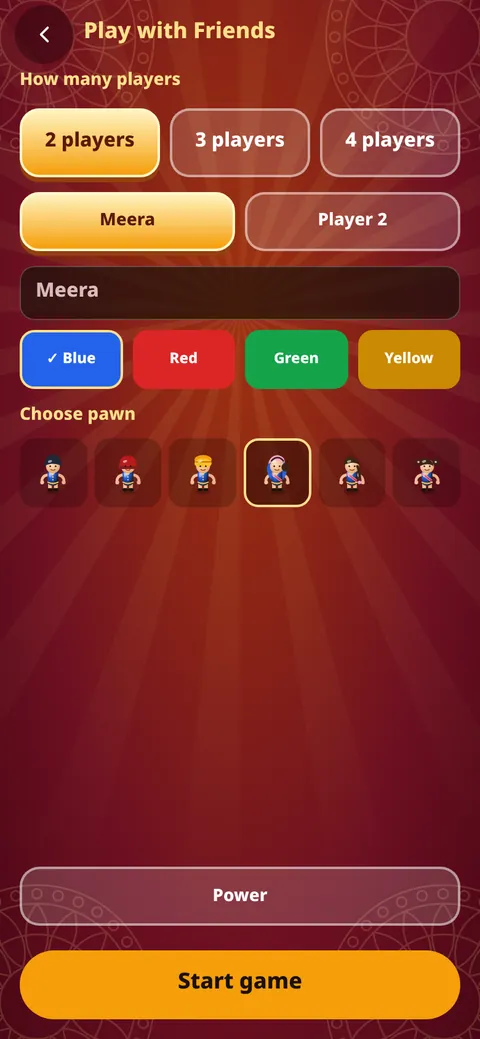
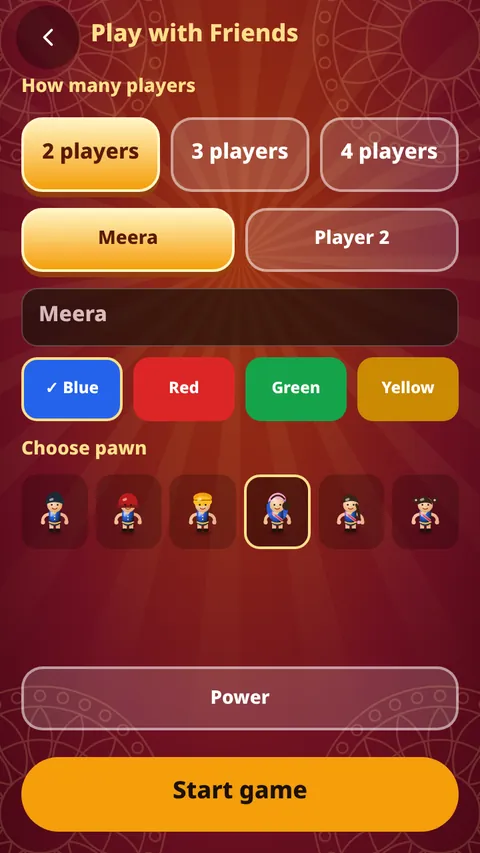
Review r3: 48px contact link row, stricter inline-link rule, danda-safe Hindi bans, tighter Friends shot
- Contact 'Data deletion · Terms of use' row: links use .small (48px), row is a wrapping flex line.
- Tap-target test: a link only counts as inline if its paragraph still has Latin or Devanagari
  letters once the links are removed (separators like '·' or '|' do not count).
- Hindi ban word boundary leaves out the danda and double danda, so 'जीतो।' and 'नकद।' are caught.
- Ludo 'Play with Friends' shot recaptured on a 360x640 phone (desi-ludo main, unchanged); the phone
  frame uses 9:16 for screens shot at that ratio.

diff --git a/public/contact.html b/public/contact.html
@@ -13,7 +13,7 @@
 <link rel="apple-touch-icon" href="/apple-touch-icon.png">
 <link rel="preload" href="/assets/fonts/YesevaOne.woff2" as="font" type="font/woff2" crossorigin>
 <link rel="preload" href="/assets/fonts/Literata-latin.woff2" as="font" type="font/woff2" crossorigin>
-<link rel="stylesheet" href="/assets/css/site.css?v=d7bb5a0369">
+<link rel="stylesheet" href="/assets/css/site.css?v=cea6a81fd4">
 <meta property="og:site_name" content="Bharat Joy">
 <meta property="og:type" content="website">
 <meta property="og:locale" content="en_IN">
@@ -62,7 +62,7 @@
         <li><a class="contact-game" href="/block-puzzle/"><img class="" src="/assets/img/icons/block-icon-96.webp" width="48" height="48" alt="" loading="lazy" decoding="async"><span><strong>Bharat Block Puzzle</strong><span lang="hi">भारत ब्लॉक पहेली</span></span></a> <a class="small" href="/block-puzzle/privacy"><span data-i18n="t2">Privacy policy</span></a></li>
         <li><a class="contact-game" href="/sweet-mela/"><img class="" src="/assets/img/icons/mela-icon-96.webp" width="48" height="48" alt="" loading="lazy" decoding="async"><span><strong>Bharat Sweet Mela</strong><span lang="hi">भारत स्वीट मेला</span></span></a> <a class="small" href="/sweet-mela/privacy"><span data-i18n="t3">Privacy policy</span></a></li>
     </ul>
-    <p><a href="/delete"><span data-i18n="t10">Data deletion</span></a> · <a href="/terms"><span data-i18n="t11">Terms of use</span></a></p>
+    <p class="contact-more"><a class="small" href="/delete"><span data-i18n="t10">Data deletion</span></a> <span aria-hidden="true">·</span> <a class="small" href="/terms"><span data-i18n="t11">Terms of use</span></a></p>
   </section>
   </main>
   <footer class="site-footer" id="policies">

diff --git a/public/bharat-ludo/index.html b/public/bharat-ludo/index.html
@@ -13,7 +13,7 @@
 <link rel="apple-touch-icon" href="/apple-touch-icon.png">
 <link rel="preload" href="/assets/fonts/YesevaOne.woff2" as="font" type="font/woff2" crossorigin>
 <link rel="preload" href="/assets/fonts/Literata-latin.woff2" as="font" type="font/woff2" crossorigin>
-<link rel="stylesheet" href="/assets/css/site.css?v=d7bb5a0369">
+<link rel="stylesheet" href="/assets/css/site.css?v=cea6a81fd4">
 <meta property="og:site_name" content="Bharat Joy">
 <meta property="og:type" content="website">
 <meta property="og:locale" content="en_IN">
@@ -75,7 +75,7 @@
       </ul>
     </div>
     <figure class="feat-shot">
-      <div class="phone "><div class="bezel"><div class="screen"><img src="/assets/img/shots/ludo-friends.webp" width="480" height="1039" alt="Bharat Ludo Play with Friends setup: number of players, names, colours and pawns" loading="lazy" decoding="async"></div></div></div>
+      <div class="phone "><div class="bezel"><div class="screen r169"><img src="/assets/img/shots/ludo-friends.webp" width="480" height="853" alt="Bharat Ludo Play with Friends setup: number of players, names, colours, pawns and Start game" loading="lazy" decoding="async"></div></div></div>
       <figcaption class="sr-only"><span data-i18n="t15">Screens from the game</span></figcaption>
     </figure>
   </section>

diff --git a/public/assets/css/site.css b/public/assets/css/site.css
@@ -120,6 +120,7 @@ p.body{font-size:17px;line-height:1.6;color:var(--mute);max-width:520px}
 .bezel{background:#2a1610;border-radius:34px;padding:10px;box-shadow:inset 0 0 0 1px var(--gold-line)}
 .screen{border-radius:24px;overflow:hidden;aspect-ratio:390/844;background:#1a0a08}
 .screen img{width:100%;height:100%;object-fit:cover;object-position:top}
+.screen.r169{aspect-ratio:9/16}
 
 /* Workshop */
 .workshop{padding:36px var(--pad) 20px}
@@ -188,6 +189,7 @@ a.cta{border:1px solid var(--maroon);background:var(--maroon);color:var(--paper)
 .contact-game strong{display:block;font-family:var(--display);font-weight:400;font-size:18px}
 .contact-game span span{display:block;color:var(--maroon);font-size:14px}
 .small{font-family:var(--italic);font-style:italic;font-size:16px;min-height:48px;display:inline-flex;align-items:center}
+.contact-more{display:flex;flex-wrap:wrap;align-items:center;column-gap:10px;margin-top:6px}
 .center{text-align:center}
 .still-board{width:180px;height:180px;margin:12px auto 18px;filter:drop-shadow(0 12px 18px rgba(80,20,20,.25))}
 .nf .lede{margin:0 auto 10px}

diff --git a/public/404.html b/public/404.html
@@ -13,7 +13,7 @@
 <link rel="apple-touch-icon" href="/apple-touch-icon.png">
 <link rel="preload" href="/assets/fonts/YesevaOne.woff2" as="font" type="font/woff2" crossorigin>
 <link rel="preload" href="/assets/fonts/Literata-latin.woff2" as="font" type="font/woff2" crossorigin>
-<link rel="stylesheet" href="/assets/css/site.css?v=d7bb5a0369">
+<link rel="stylesheet" href="/assets/css/site.css?v=cea6a81fd4">
 <meta property="og:site_name" content="Bharat Joy">
 <meta property="og:type" content="website">
 <meta property="og:locale" content="en_IN">

diff --git a/public/bharat-ludo/privacy.html b/public/bharat-ludo/privacy.html
@@ -13,7 +13,7 @@
 <link rel="apple-touch-icon" href="/apple-touch-icon.png">
 <link rel="preload" href="/assets/fonts/YesevaOne.woff2" as="font" type="font/woff2" crossorigin>
 <link rel="preload" href="/assets/fonts/Literata-latin.woff2" as="font" type="font/woff2" crossorigin>
-<link rel="stylesheet" href="/assets/css/site.css?v=d7bb5a0369">
+<link rel="stylesheet" href="/assets/css/site.css?v=cea6a81fd4">
 <meta property="og:site_name" content="Bharat Joy">
 <meta property="og:type" content="website">
 <meta property="og:locale" content="en_IN">

diff --git a/public/block-puzzle/index.html b/public/block-puzzle/index.html
@@ -13,7 +13,7 @@
 <link rel="apple-touch-icon" href="/apple-touch-icon.png">
 <link rel="preload" href="/assets/fonts/YesevaOne.woff2" as="font" type="font/woff2" crossorigin>
 <link rel="preload" href="/assets/fonts/Literata-latin.woff2" as="font" type="font/woff2" crossorigin>
-<link rel="stylesheet" href="/assets/css/site.css?v=d7bb5a0369">
+<link rel="stylesheet" href="/assets/css/site.css?v=cea6a81fd4">
 <meta property="og:site_name" content="Bharat Joy">
 <meta property="og:type" content="website">
 <meta property="og:locale" content="en_IN">

diff --git a/public/block-puzzle/privacy.html b/public/block-puzzle/privacy.html
@@ -13,7 +13,7 @@
 <link rel="apple-touch-icon" href="/apple-touch-icon.png">
 <link rel="preload" href="/assets/fonts/YesevaOne.woff2" as="font" type="font/woff2" crossorigin>
 <link rel="preload" href="/assets/fonts/Literata-latin.woff2" as="font" type="font/woff2" crossorigin>
-<link rel="stylesheet" href="/assets/css/site.css?v=d7bb5a0369">
+<link rel="stylesheet" href="/assets/css/site.css?v=cea6a81fd4">
 <meta property="og:site_name" content="Bharat Joy">
 <meta property="og:type" content="website">
 <meta property="og:locale" content="en_IN">

diff --git a/public/delete.html b/public/delete.html
@@ -13,7 +13,7 @@
 <link rel="apple-touch-icon" href="/apple-touch-icon.png">
 <link rel="preload" href="/assets/fonts/YesevaOne.woff2" as="font" type="font/woff2" crossorigin>
 <link rel="preload" href="/assets/fonts/Literata-latin.woff2" as="font" type="font/woff2" crossorigin>
-<link rel="stylesheet" href="/assets/css/site.css?v=d7bb5a0369">
+<link rel="stylesheet" href="/assets/css/site.css?v=cea6a81fd4">
 <meta property="og:site_name" content="Bharat Joy">
 <meta property="og:type" content="website">
 <meta property="og:locale" content="en_IN">

diff --git a/public/index.html b/public/index.html
@@ -13,7 +13,7 @@
 <link rel="apple-touch-icon" href="/apple-touch-icon.png">
 <link rel="preload" href="/assets/fonts/YesevaOne.woff2" as="font" type="font/woff2" crossorigin>
 <link rel="preload" href="/assets/fonts/Literata-latin.woff2" as="font" type="font/woff2" crossorigin>
-<link rel="stylesheet" href="/assets/css/site.css?v=d7bb5a0369">
+<link rel="stylesheet" href="/assets/css/site.css?v=cea6a81fd4">
 <meta property="og:site_name" content="Bharat Joy">
 <meta property="og:type" content="website">
 <meta property="og:locale" content="en_IN">

diff --git a/public/sweet-mela/index.html b/public/sweet-mela/index.html
@@ -13,7 +13,7 @@
 <link rel="apple-touch-icon" href="/apple-touch-icon.png">
 <link rel="preload" href="/assets/fonts/YesevaOne.woff2" as="font" type="font/woff2" crossorigin>
 <link rel="preload" href="/assets/fonts/Literata-latin.woff2" as="font" type="font/woff2" crossorigin>
-<link rel="stylesheet" href="/assets/css/site.css?v=d7bb5a0369">
+<link rel="stylesheet" href="/assets/css/site.css?v=cea6a81fd4">
 <meta property="og:site_name" content="Bharat Joy">
 <meta property="og:type" content="website">
 <meta property="og:locale" content="en_IN">

diff --git a/public/sweet-mela/privacy.html b/public/sweet-mela/privacy.html
@@ -13,7 +13,7 @@
 <link rel="apple-touch-icon" href="/apple-touch-icon.png">
 <link rel="preload" href="/assets/fonts/YesevaOne.woff2" as="font" type="font/woff2" crossorigin>
 <link rel="preload" href="/assets/fonts/Literata-latin.woff2" as="font" type="font/woff2" crossorigin>
-<link rel="stylesheet" href="/assets/css/site.css?v=d7bb5a0369">
+<link rel="stylesheet" href="/assets/css/site.css?v=cea6a81fd4">
 <meta property="og:site_name" content="Bharat Joy">
 <meta property="og:type" content="website">
 <meta property="og:locale" content="en_IN">

diff --git a/public/terms.html b/public/terms.html
@@ -13,7 +13,7 @@
 <link rel="apple-touch-icon" href="/apple-touch-icon.png">
 <link rel="preload" href="/assets/fonts/YesevaOne.woff2" as="font" type="font/woff2" crossorigin>
 <link rel="preload" href="/assets/fonts/Literata-latin.woff2" as="font" type="font/woff2" crossorigin>
-<link rel="stylesheet" href="/assets/css/site.css?v=d7bb5a0369">
+<link rel="stylesheet" href="/assets/css/site.css?v=cea6a81fd4">
 <meta property="og:site_name" content="Bharat Joy">
 <meta property="og:type" content="website">
 <meta property="og:locale" content="en_IN">
